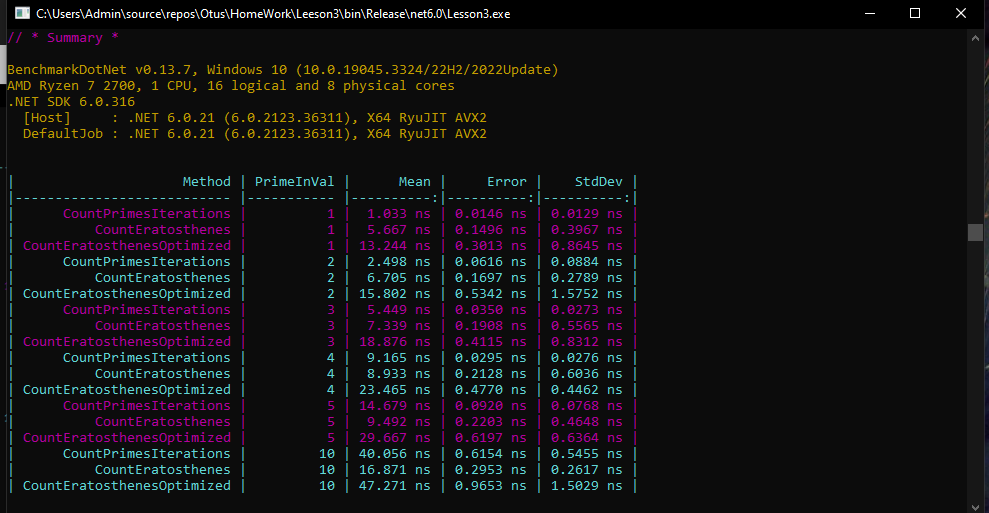
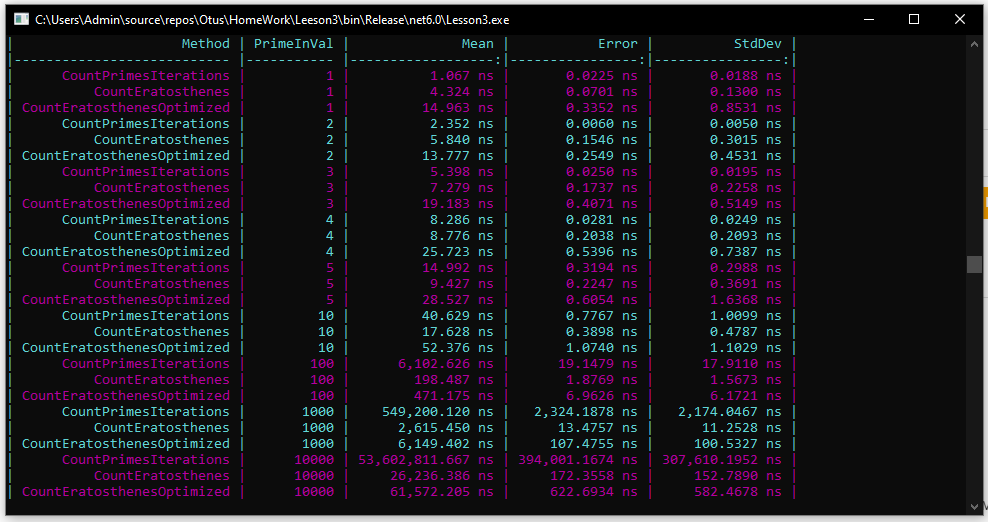
chore: rerun primes benchmark

Changed region(s): [[0.0, 0.0, 1.0, 1.0], [0.7287, 0.0624, 0.7895, 0.0936]]

diff --git a/HomeWork/Leeson3/Benchmarks/PrimesrBenchmark.cs b/HomeWork/Leeson3/Benchmarks/PrimesrBenchmark.cs
@@ -6,7 +6,7 @@ namespace Lesson3.Benchmarks
     [SimpleJob]
     public class PrimesBenchmark
     {
-        [Params(10, 1, 2, 3, 4, 5)]
+        [Params(10, 1, 2, 3, 4, 5, 100, 1000, 10000)]
         public int PrimeInVal;
 
         [Benchmark]
